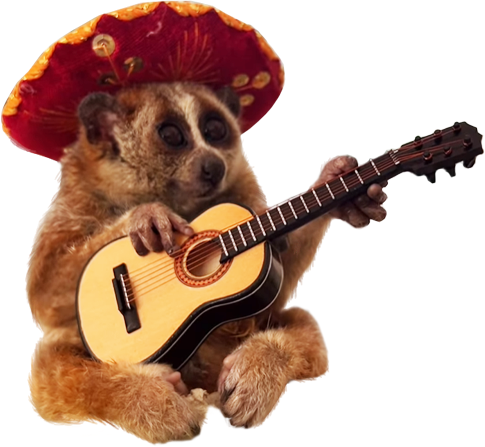
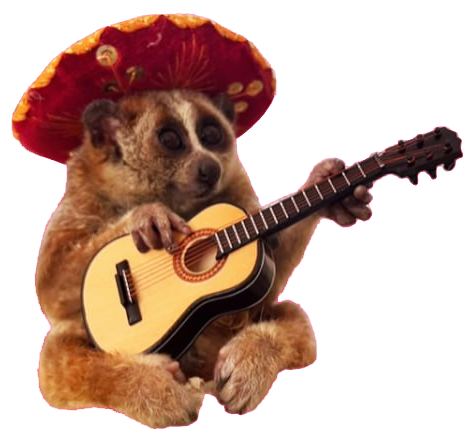
asd

Changed region(s): [[0.0, 0.0, 1.0, 1.0]]

diff --git a/js/script.js b/js/script.js
@@ -1,15 +1,27 @@
 document.addEventListener('DOMContentLoaded', () => {
-  // 🔊 Лемур-музика
+  // 🔊 Лемур-музика з динамічною картинкою
   const lemur = document.querySelector('.lemur.center');
   const audio = document.getElementById('bg-music');
+
+  const updateLemurImage = () => {
+    if (!lemur) return;
+    lemur.innerHTML = `<img src="./img/${audio.paused ? 'i3' : 'i31'}.png" alt="lemur">`;
+  };
+
   if (lemur && audio) {
+    updateLemurImage(); // Початковий рендер
+
     lemur.addEventListener('click', () => {
       if (audio.paused) {
         audio.play();
       } else {
         audio.pause();
       }
+      updateLemurImage();
     });
+
+    audio.addEventListener('play', updateLemurImage);
+    audio.addEventListener('pause', updateLemurImage);
   }
 
   // 🍅 Помідори
@@ -105,15 +117,9 @@ document.addEventListener('DOMContentLoaded', () => {
     });
   }
 
-  // Запуск
+  // 🚀 Запуск
   createTomatoes();
   initGallery();
 });
-
-
-
-
-
-
 
 

diff --git a/index.html b/index.html
@@ -40,9 +40,9 @@
 
             <!-- <div class="lemur center"><img src="./img/i3.png" alt="lemur"></div> -->
 
-<div class="lemur center hover-scale"><img src="./img/i31.png" alt="lemur"></div>
+<div class="lemur center hover-scale"><img src="./img/i3.png" alt="lemur"></div>
+<div class="lemur center hover-scale" id="lemur-toggle"></div>
 <audio id="bg-music" src="./1.mp3"></audio>
-
 
 
             <div class="buttons-container animate__animated animate__jello">
